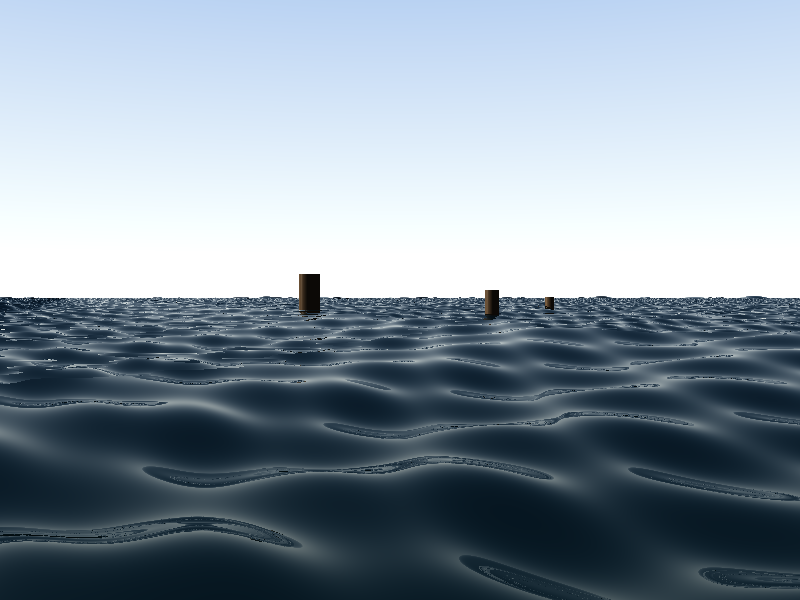
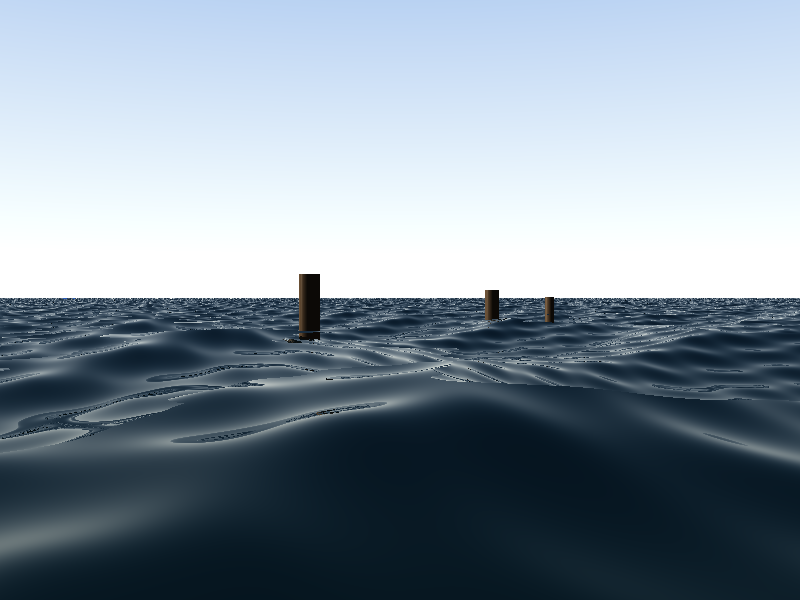
The water library says how steep the sea is, and nothing else
`Water(...)` now returns a `swells` surface, so the three numbers that used to describe a wave
have become one.  `WaterSharpness` raised a rectified sine to a power to peak a crest;
`WaterLean` sheared the field sideways by its own height to tilt it.  Both are gone: the shape
is trochoidal by construction, and the peaking and the leaning are the same motion seen twice.
`WaterCrest` no longer names heights either -- it works them out from the trains, so it cannot
drift away from the surface it claims to describe.

Same scene at 400x300, every state faster:

    glassy   1.48s -> 0.70s
    calm     2.24s -> 1.08s
    breezy   2.79s -> 1.47s
    choppy   3.83s -> 2.18s
    rough    3.89s -> 3.07s

**The old water was steeper than water can be.**  Its five trains added to a steepness of
1.068, past where a trochoid closes to a cusp and breaks -- which a sum of sines allows only
because a sine has no breaking point to run into.  So the states could not simply be carried
over; there is a budget under one to spend now, and these spend 0.775 at their roughest.

**Two things the calibration turned up, both found by looking at a render rather than by
reasoning.**  The first distribution let the short trains' steepness fall away as fast as their
wavelength, on the reasoning that little waves are little.  That gave a sea of bare rolling
swell, visibly smoother than the sines it replaced: the ripples had almost no height left.  The
[…]

Changed region(s): [[0.0, 0.48, 1.0, 0.96], [0.6875, 0.93, 1.0, 1.0], [0.5, 0.87, 0.6875, 1.0]]

diff --git a/docs/libraries.md b/docs/libraries.md
@@ -600,52 +600,68 @@ phase, so two bodies of water in one scene are not the same water twice.
 
 ##### What makes a surface into water
 
-**The waves are really there.**  This is an [isosurface](advanced-surfaces.md#isosurface), so the
-silhouette against the horizon is as rough as the middle of the picture, the shadows are wave-shaped,
-and what the water refracts is bent by the slope it actually has.  A
+**The waves are really there.**  This is a [`swells`](surfaces.md#swells) surface, so the silhouette
+against the horizon is as rough as the middle of the picture, the shadows are wave-shaped, and what the
+water refracts is bent by the slope it actually has.  A
 [`normal` block](materials.md#roughening-the-surface) on a flat plane gets a similar look head-on for
 far less work, and gives itself away at exactly the place a seascape is looking: at the horizon a flat
 plane is still a straight line.
 
-**It wants anti-aliasing, and that is the bill for the waves being real.**  Real detail at a distance
-aliases.  At one sample a pixel, water going away from the camera turns to gray mush near the horizon,
-because each pixel is averaging some normals that mirror the sky and some that look down into the
-dark, and the average of those is neither.  Measured on a horizon-filling ocean at 400×300: **1.5
-seconds with a mush band, 31 seconds at `-a adaptive:3` and clean.**  The same bill comes due for any
-surface with fine detail in it.
+**The shape is water's own, and it is no longer tuned.**  Each piece of water travels in a *circle* as
+a wave passes, so it bunches up under a crest and spreads out under a trough.  The crests draw up and
+the troughs flatten out because of that, and the crests lean into the direction they travel for the
+same reason — one cause, not three effects to be dialled in separately.
+
+This library used to say all three by hand: a `crest` for height, a `sharpness` that raised a rectified
+sine to a power, and a `lean` that sheared the field sideways by its own height.  Each had to be found
+by eye, and the sharpening had a flaw that could not be tuned out — **a number near nought raised to a
+power is much nearer nought over a broad stretch**, so sharpening a crest necessarily flattened the
+trough with it, and at `rough` the troughs came out as dead-flat leaf-shaped patches that read as a
+fault in the renderer.  Mixing two thirds sharpened with one third plain held that at bay.  None of it
+is needed now.
+
+**One number says how rough the water is**: `steepness`, the height of a wave against how far apart its
+crests are.  Real waves break at about 0.45; a trochoid closes to a cusp at 1.0, steeper than the sea
+ever gets.  The five trains a body of water carries are set from it, falling from the swell's own
+steepness to under a third of it — a real sea is closer to *equally* steep at every scale, and the
+first attempt here let the ripples fall away as fast as their length, which left a sea of bare rolling
+swell far smoother than the sine water it replaced.
+
+**The budget is what tells this apart from a sum of sines.**  The trains must add to less than one, or
+the water would fold over itself and there would no longer be a single height at a place.  The sine
+water this replaces added to **1.068** — steeper than water can actually be, which a sine allows only
+because it has no breaking point to run into.  These add to 0.775 at their roughest, and no further:
+the surface gets dearer to draw the nearer the total comes to one, since what it prunes with loosens
+as `1 / (1 - steepness)`.
+
+**It is faster than the sines were**, which is not what anyone would guess of a surface that has to
+solve for its own shape.  A field written as a sum of sines is bounded by walking its expression tree;
+a surface that knows what it is can say where the water could possibly reach in closed form.  The same
+scene at 400×300:
+
+| state | as sines | as swells |
+|---|---|---|
+| `glassy` | 1.48s | **0.70s** |
+| `calm` | 2.24s | **1.08s** |
+| `breezy` | 2.79s | **1.47s** |
+| `choppy` | 3.83s | **2.18s** |
+| `rough` | 3.89s | **3.07s** |
+
+**It still wants anti-aliasing, and that is the bill for the waves being real.**  Real detail at a
+distance aliases.  At one sample a pixel, water going away from the camera turns to gray mush near the
+horizon, because each pixel is averaging some normals that mirror the sky and some that look down into
+the dark, and the average of those is neither.  On the `choppy` scene above at `-a adaptive:3`: **93
+seconds against 2.18**.  That multiple is worse than the sine water's, because a truer crest is sharper
+and gives the sampler more to find — but the wall-clock is better all the same, since the same setting
+cost the sines **135 seconds**.
 
 **Give it something to reflect.**  Water is mostly a mirror, and a mirror in an empty room shows an
 empty room — a flat background color makes water look like paint whatever else is right about it.  A
 gradient will do; one of [the skies](#daylight) does it better.
 
-**The crests are sharpened, and the sharpening had to be pulled back.**  A plain sine is as round on
-top as underneath and reads as a swimming pool however tall it is made; real swell is peaked above and
-broad below, because the water at a crest is moving forward and bunches there.  Raising a rectified
-sine to a power imitates that — but it flattens the trough while it sharpens the crest, necessarily,
-since a number near nought raised to a power is much nearer nought over a broad stretch either side of
-the bottom.  Pure sharpening therefore paid for its ridges with dead-flat plateaus lying in the
-troughs, which at `rough` looked like smooth leaf-shaped patches and read as a fault in the renderer.
-Each swell term is now about two thirds sharpened and one third plain, which keeps the crests drawn up
-and gives the troughs their curve back.
-
-**The crests lean, and getting there needed no new machinery.**  A true trochoid displaces the
-surface *sideways* as well as up, so each crest tilts in the direction it travels: steep in front,
-broad behind.  A height written as `y - f(x, z)` looks unable to do that, since every point is
-directly above where it started — but an implicit surface need not be a graph.  Shear the field's own
-horizontal argument by its height, `f(x - lean·y, z)`, and it leans.  It is the same marched
-isosurface as before.
-
-Measured on a single train of crest 1.6 and wavelength 20, by solving the implicit equation directly:
-the crest height stays at **1.6000 exactly** while the two faces diverge, the ratio of back slope to
-front going 1.00, 0.68, 0.43 as the shear rises.  That is a trochoid's signature — asymmetric, and no
-shorter for it.  Each state carries its own lean, given as a fraction of a wavelength so it means the
-same thing at every scale.  It costs about 1.6× to march.
-
-**What a lean is not.**  A wave that actually *breaks* — a crest folding over into a tube — is not
-this.  Push the shear past about a third of a wavelength and the surface stops leaning and starts
-folding into overlapping sheets, which is a mess rather than a breaker.  That wants a different
-surface: a Gerstner wave proper, whose parameterisation inverts by Newton in four to six steps, giving
-an implicit surface with an exact silhouette and no tessellation.  Worked out, not built.
+**What this still will not do.**  A wave that actually *breaks* — a crest folding over into a tube — is
+past where this can go.  Turning the shape round to ask what stands at a place needs there to be one
+answer, and past a steepness of one there is more than one.  The cusp at 1.0 is the nearest it comes.
 
 #### Outdoor Lights
 
